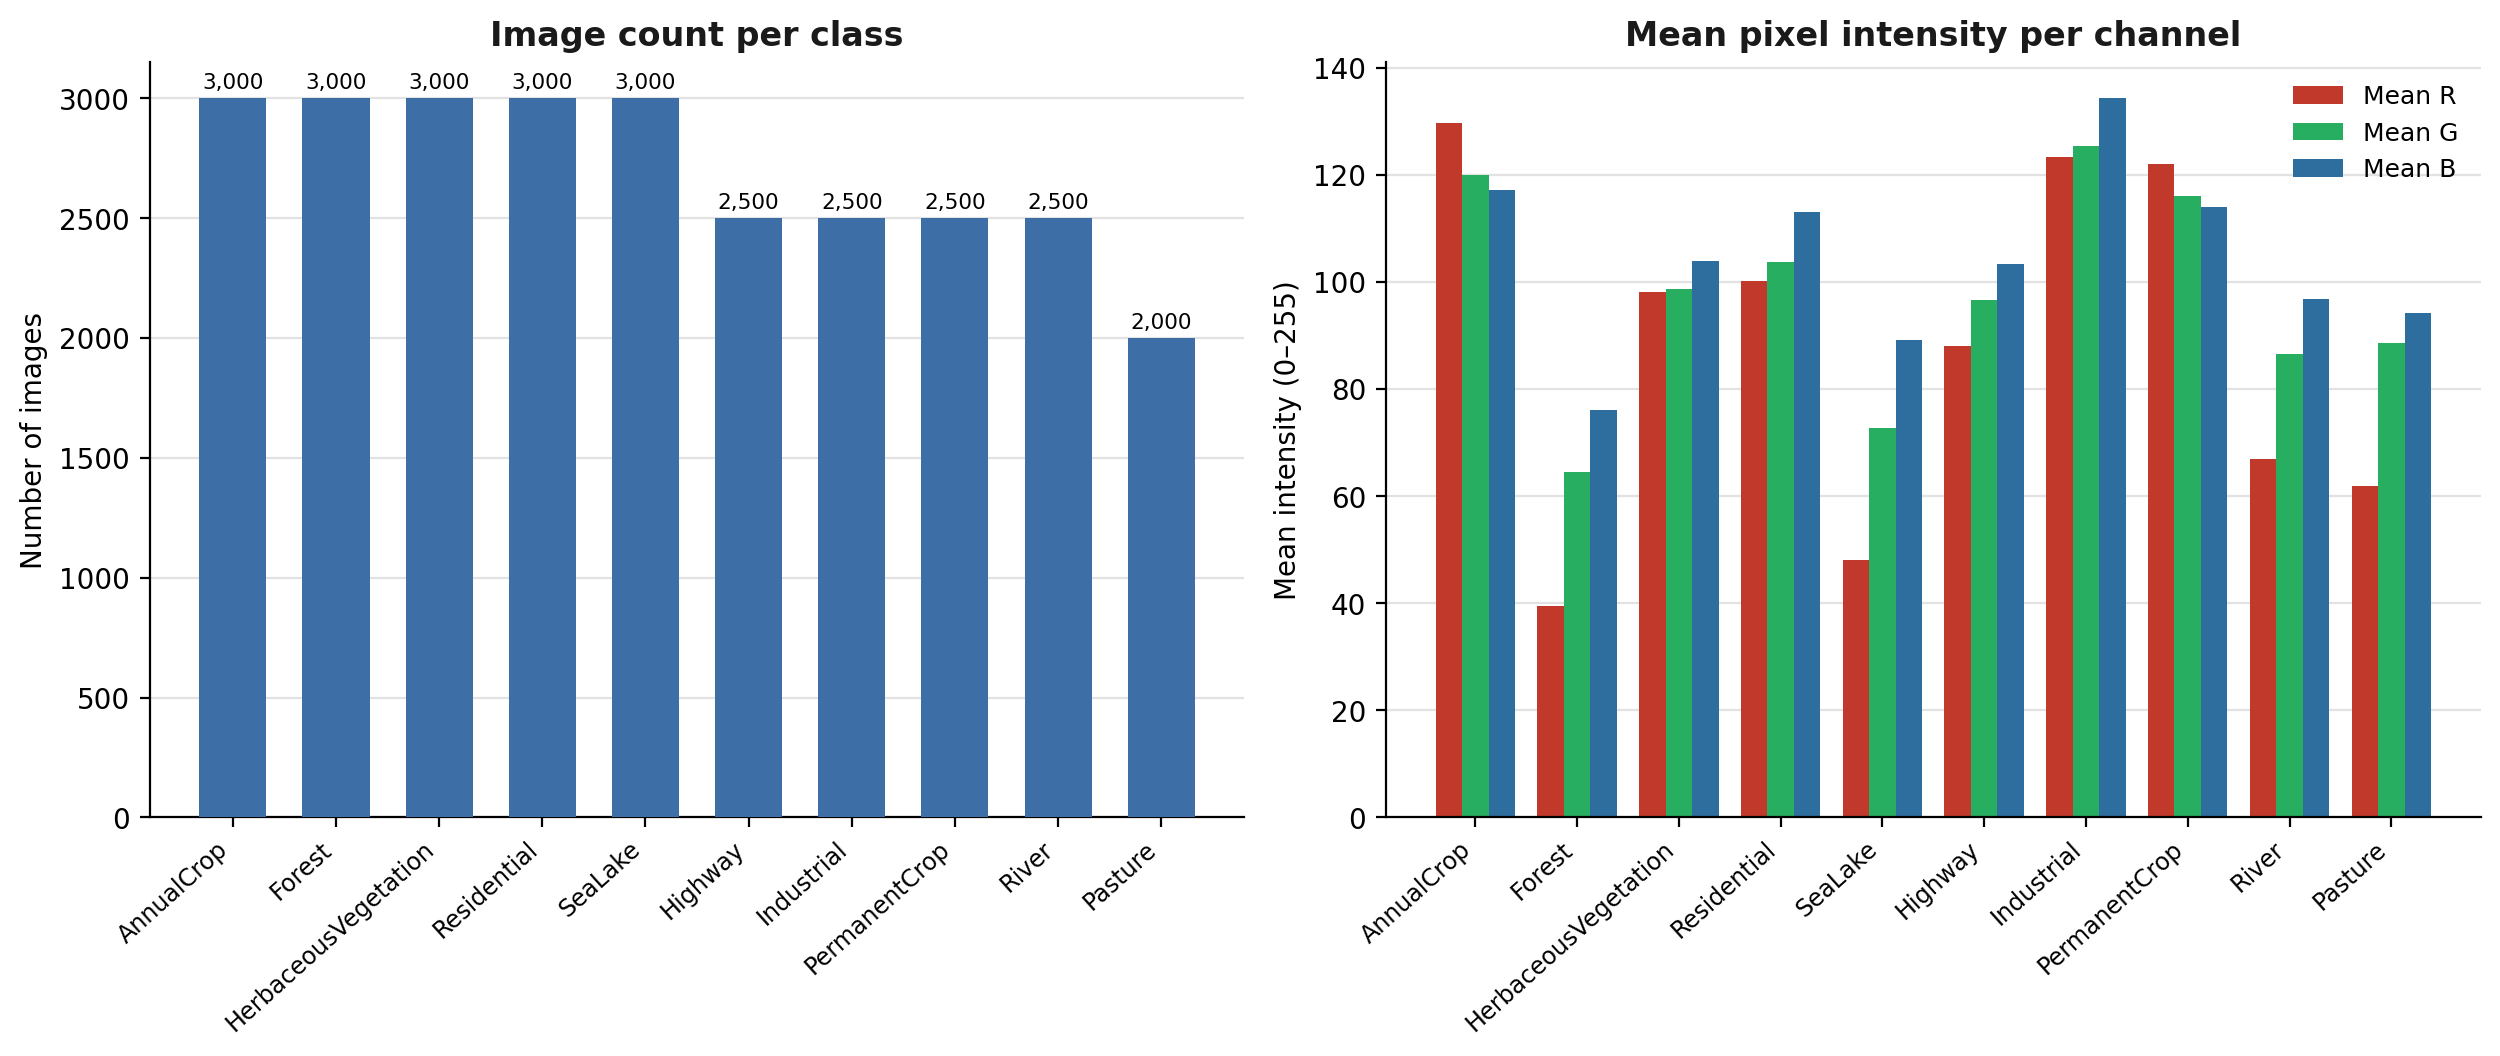
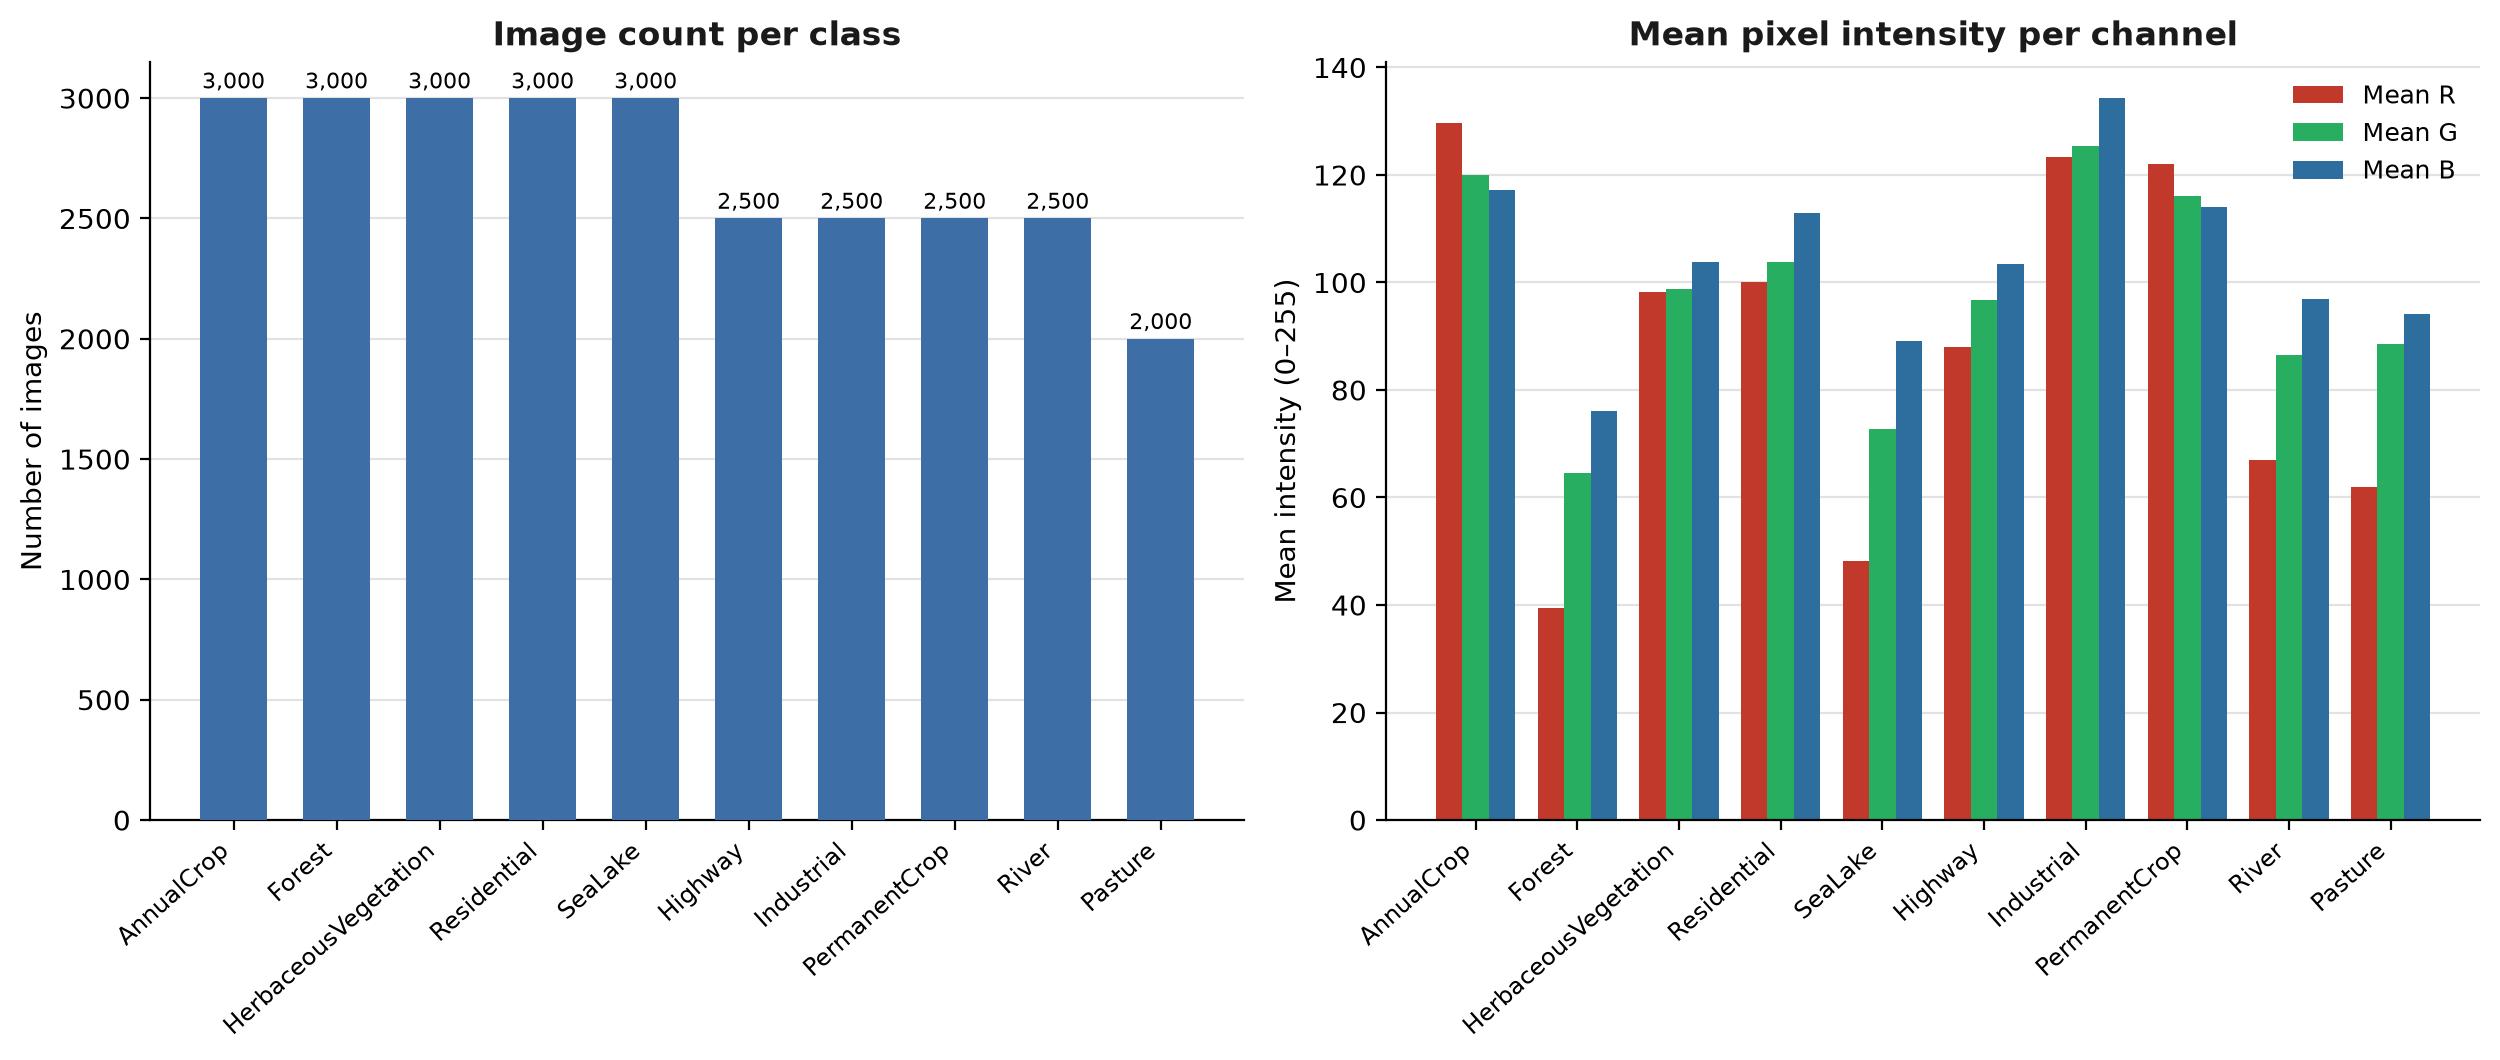
Finalize proposal to 3 pages and clean up legacy script/figure outputs
- Proposal: add per-class train/val/test breakdown table, tighten
  spacing and figure sizes so the document is exactly 3 pages
- Remove superseded dark-theme figures and the one-off docx figure
  generator script; trim script docstrings

diff --git a/scripts/download_data.py b/scripts/download_data.py
@@ -1,29 +1,4 @@
-"""
-Download and extract the EuroSAT (RGB) dataset.
 
-EuroSAT: Land Use and Land Cover Classification with Sentinel-2
-Helber et al., 2019 (IEEE JSTARS) / IGARSS 2018
-Official repo: https://github.com/phelber/eurosat
-License: MIT (repository/labels) + Copernicus Sentinel Data Terms
-         (Sentinel-2 imagery is free, full and open under the EU's
-         Copernicus data policy).
-
-This script expects the official archive (~90-95 MB) to already be present
-at data/EuroSAT.zip. If it is not there, it tries to download it from the
-Zenodo long-term archive; if that is blocked on your network, download it
-yourself first with one of:
-
-    curl -L -o data/EuroSAT.zip "https://zenodo.org/records/7711810/files/EuroSAT_RGB.zip?download=1"
-    curl -L -o data/EuroSAT.zip "https://madm.dfki.de/files/sentinel/EuroSAT.zip"
-
-or via torchvision, which fetches the same imagery automatically:
-
-    from torchvision.datasets import EuroSAT
-    EuroSAT(root="data", download=True)
-
-After extraction you will have:
-    data/raw/EuroSAT_RGB/<ClassName>/<image>.jpg   (10 class subfolders, 27,000 images)
-"""
 import os
 import sys
 import urllib.request

diff --git a/scripts/split_dataset.py b/scripts/split_dataset.py
@@ -1,21 +1,4 @@
-"""
-Create a fixed, stratified train/validation/test split BEFORE any model
-training, as required by the proposal, and produce a presentation-ready
-summary table (console + themed PNG) verifying the stratification held.
 
-EuroSAT ships as a single pool of 27,000 labeled images with no official
-train/val/test split, so we define our own:
-
-    70% train / 15% validation / 15% test, stratified by class,
-    fixed random seed (42) for reproducibility.
-
-Writes data/splits/{train,val,test}.csv, each with columns:
-    filepath,label
-and data/split_summary.csv with the per-class, per-split breakdown.
-
-Run after scripts/download_data.py:
-    python scripts/split_dataset.py
-"""
 import os
 import csv
 import random

diff --git a/scripts/make_plots.py b/scripts/make_plots.py
@@ -1,14 +1,4 @@
-"""
-Generate the two required proposal figures from the real, downloaded data,
-styled in the project's dark theme (deep green background, mint accent,
-lavender secondary accent) so they drop directly into the themed PDF:
 
-  1. figures/sample_grid.png       - one representative image per class
-  2. figures/class_distribution.png - bar chart of images per class
-
-Run after scripts/inspect_data.py:
-    python scripts/make_plots.py
-"""
 import os
 import csv
 import random

diff --git a/scripts/sample_inspection.py b/scripts/sample_inspection.py
@@ -1,12 +1,4 @@
-"""
-Full inspection pass over every EuroSAT image: verifies dimensions/mode,
-checks for corrupted files, and computes per-class mean RGB channel
-intensity (used for the proposal's "sample inspection" writeup and for
-the counts+intensity figure).
 
-Run after scripts/download_data.py:
-    python scripts/sample_inspection.py
-"""
 import os
 import csv
 import numpy as np

diff --git a/scripts/inspect_data.py b/scripts/inspect_data.py
@@ -1,11 +1,4 @@
-"""
-Inspect the downloaded EuroSAT dataset: verify class folders, count real
-images per class, check image dimensions, and produce a presentation-ready
-table (console + themed PNG) used by the proposal.
 
-Run after scripts/download_data.py:
-    python scripts/inspect_data.py
-"""
 import os
 import csv
 from collections import Counter
